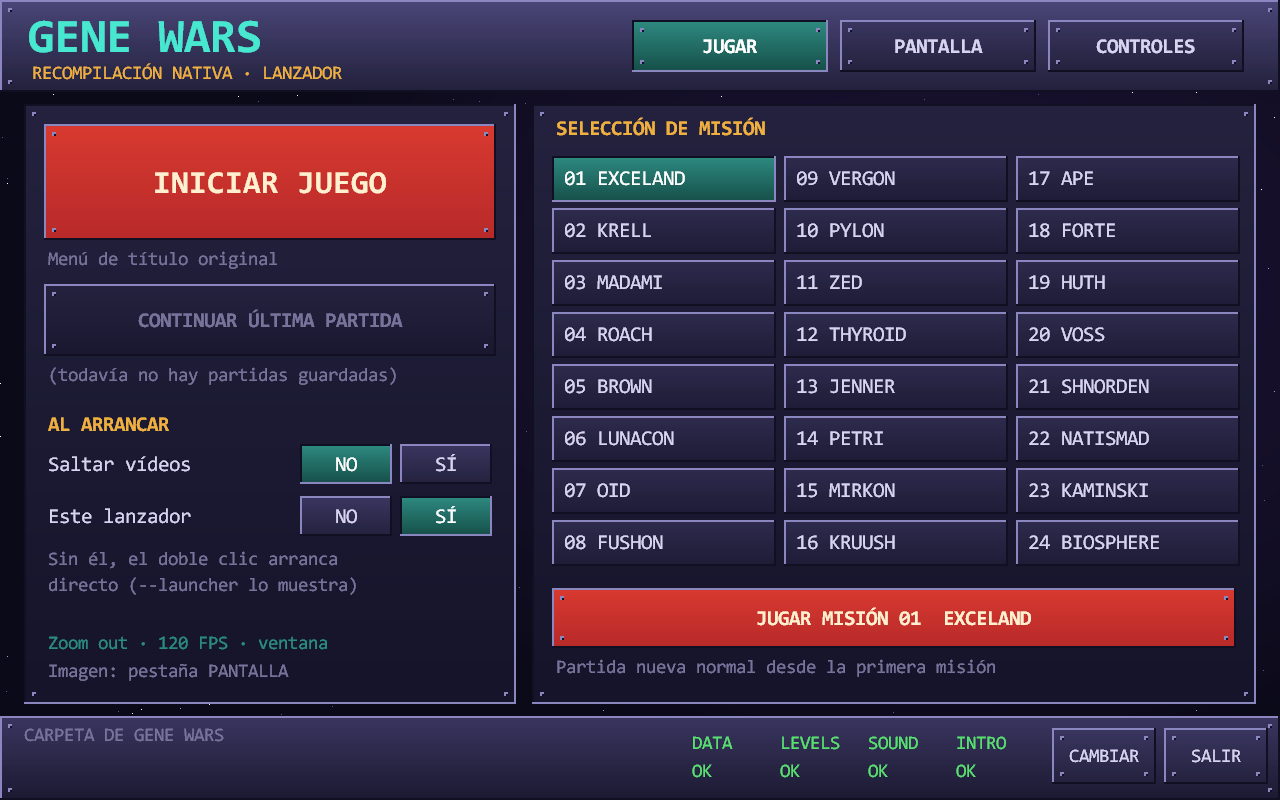
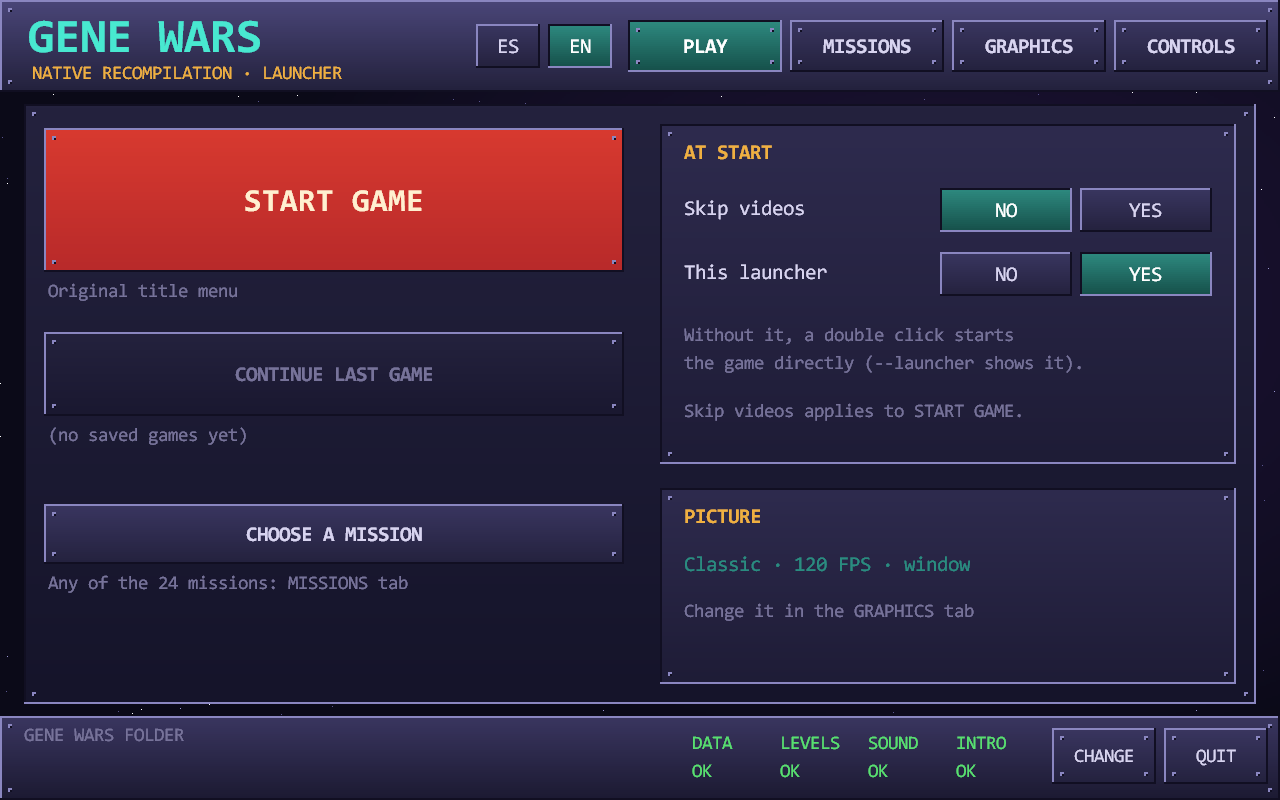
README: bilingual launcher screenshots (play, missions, graphics), download link to Releases, v1.1

diff --git a/README.md b/README.md
@@ -1,4 +1,4 @@
-# GWRecomp v1.0 — Gene Wars, natively on Windows
+# GWRecomp — Gene Wars, natively on Windows
 
 <p align="center">
   <img src="gwrecomp/docs/screenshots/widescreen.png" alt="Mission 1 in widescreen 854x480: an extractor built on the GOOP field and the translucent placement ghost of the next one" width="100%">
@@ -12,6 +12,9 @@ AI and mixer are the original code; the host only replaces the hardware and DOS 
 
 It needs **your own copy of Gene Wars 1.1**: no game files are included (see [Legal](#legal)).
 
+**Download:** [latest release](https://github.com/Polocop/genewars/releases/latest) (`GWRecomp-*-win32.zip`, Windows,
+ready to play with your own `GENEWARS` folder) · **Descarga:** [última versión](https://github.com/Polocop/genewars/releases/latest).
+
 ## Screenshots
 
 <table>
@@ -24,15 +27,20 @@ It needs **your own copy of Gene Wars 1.1**: no game files are included (see [Le
     <td align="center"><em>Classic 640×480, as in 1996</em></td>
   </tr>
   <tr>
-    <td width="50%"><img src="gwrecomp/docs/screenshots/launcher-play.png" alt="Native launcher: mission selection"></td>
-    <td width="50%"><img src="gwrecomp/docs/screenshots/launcher-display.png" alt="Native launcher: display options"></td>
+    <td width="50%"><img src="gwrecomp/docs/screenshots/launcher-play.png" alt="Native launcher: play tab"></td>
+    <td width="50%"><img src="gwrecomp/docs/screenshots/launcher-missions.png" alt="Native launcher: mission selection"></td>
   </tr>
   <tr>
-    <td align="center"><em>Native launcher: start, continue or pick any of the 24 missions</em></td>
-    <td align="center"><em>Display options: view mode, resolution, 60/120 FPS, filter, water and GOOP</em></td>
+    <td align="center"><em>Native launcher (English / Spanish): start, continue, start-up options</em></td>
+    <td align="center"><em>Missions: pick any of the 24 missions</em></td>
   </tr>
   <tr>
-    <td colspan="2" align="center"><img src="gwrecomp/docs/screenshots/planet.png" alt="Planet system screen" width="60%"><br><em>The original planet-system screen, with its sounds</em></td>
+    <td width="50%"><img src="gwrecomp/docs/screenshots/launcher-graphics.png" alt="Native launcher: graphics options"></td>
+    <td width="50%"><img src="gwrecomp/docs/screenshots/planet.png" alt="Planet system screen"></td>
+  </tr>
+  <tr>
+    <td align="center"><em>Graphics: view mode, resolution, 60/120 FPS, filter, water and GOOP</em></td>
+    <td align="center"><em>The original planet-system screen, with its sounds</em></td>
   </tr>
 </table>
 
@@ -45,7 +53,7 @@ the source folders of this repository, untouched.
 - **Native Win32/SDL2 build** of the original executable: one `gwrecomp.exe` plus `SDL2.dll`, no DOSBox, no emulator.
 - **Deterministic regression check:** the A/B suite renders 56 frame captures at four points of mission 1 (after
   the landing, before a creature is ready, during construction, extractor selected) and compares them with reference
-  hashes; v1.0 matches all 56 bit for bit. The presentation extras (interpolation, water, audio) never write game
+  hashes; v1.1 matches all 56 bit for bit. The presentation extras (interpolation, water, audio) never write game
   memory, so they cannot change these frames.
 - **Three view modes:**
   - Classic `640×480` (the original frame),
@@ -63,17 +71,17 @@ the source folders of this repository, untouched.
   - stereo panning and distance fade calibrated to the visible map width,
   - subtle ±4.5 % pitch variation on effects (never on voices),
   - music ducking while a voice speaks.
-- **Native graphical launcher:** mission selector 1–24, Continue, view/resolution/filter/audio options, all saved
-  in `gwrecomp.ini`.
+- **Native graphical launcher in English and Spanish** (ES / EN buttons; by default it follows the Windows
+  language): mission selector 1–24, Continue, view/resolution/filter/audio options, all saved in `gwrecomp.ini`.
 
 ## Installation (English)
 
 1. Have **Gene Wars 1.1 (European edition)** installed: the `GENEWARS` folder created by the original installer
    (`DATA`, `LEVELS`, `SOUND`, `INTRO`, `ANIMS`, `LDATA`, `S`, `SPEECH`, `SAVE` and the loose files such as `GW.EXE`).
    GWRecomp checks them with SHA-256 and only reads them.
-2. Unzip `GWRecomp-v1.0-win32.zip` anywhere you can write (saves and logs go next to the program).
-3. Double-click `gwrecomp.exe`. In the launcher press **CAMBIAR** and choose your `GENEWARS` folder; the four marks
-   DATA / LEVELS / SOUND / INTRO turn green.
+2. Download `GWRecomp-v1.1-win32.zip` from [Releases](https://github.com/Polocop/genewars/releases/latest) and unzip it anywhere you can write (saves and logs go next to the program).
+3. Double-click `gwrecomp.exe`. In the launcher press **CHANGE** and choose your `GENEWARS` folder; the four marks
+   DATA / LEVELS / SOUND / INTRO turn green. The **ES / EN** buttons at the top switch the launcher's language.
 4. Start the game, continue the last game, or pick a mission.
 
 **First start:** the first time you enter the game, `gwrecomp.exe` prepares two files in `work\` from *your* `GW.EXE`
@@ -90,6 +98,7 @@ them.
 | `filter` | `sharp`, `epx` or `crt` (also F7 in game) |
 | `water_effects` | animated water and GOOP (`1`/`0`) |
 | `enhanced_audio` | calibrated panning, pitch variation, music ducking (`1`/`0`) |
+| `language` | launcher language: `en`, `es` or `auto` (Windows display language) |
 | `cd_cue` | path to your own Gene Wars CD image `.cue`, for the CD music |
 | `data_dir` | your `GENEWARS` folder (the launcher fills it in) |
 
@@ -104,9 +113,10 @@ Building from source (Windows, MSYS2 mingw32, Python, LLVM clang) is described i
 1. Ten instalado **Gene Wars 1.1 (edición europea)**: la carpeta `GENEWARS` que crea el instalador original
    (`DATA`, `LEVELS`, `SOUND`, `INTRO`, `ANIMS`, `LDATA`, `S`, `SPEECH`, `SAVE` y los archivos sueltos como `GW.EXE`).
    GWRecomp los comprueba con SHA-256 y solo los lee.
-2. Descomprime `GWRecomp-v1.0-win32.zip` en una carpeta donde puedas escribir (ahí se guardan partidas y registros).
+2. Descarga `GWRecomp-v1.1-win32.zip` de [Releases](https://github.com/Polocop/genewars/releases/latest) y descomprímelo en una carpeta donde puedas escribir (ahí se guardan partidas y registros).
 3. Haz doble clic en `gwrecomp.exe`. En el lanzador pulsa **CAMBIAR** y elige tu carpeta `GENEWARS`; las cuatro
-   marcas DATA / LEVELS / SOUND / INTRO se ponen en verde.
+   marcas DATA / LEVELS / SOUND / INTRO se ponen en verde. Los botones **ES / EN** de arriba cambian el idioma del
+   lanzador.
 4. Inicia el juego, continúa la última partida o elige una misión.
 
 **Primer arranque:** la primera vez que entras al juego, `gwrecomp.exe` prepara dos archivos en `work\` a partir de
@@ -114,7 +124,7 @@ Building from source (Windows, MSYS2 mingw32, Python, LLVM clang) is described i
 compartas.
 
 **Opciones:** todo lo que cambias en el lanzador se guarda en `gwrecomp.ini` (modo de vista, resolución, pantalla
-completa, 60/120 FPS, filtro, `water_effects`, `enhanced_audio`). Para la música del CD añade
+completa, 60/120 FPS, filtro, `water_effects`, `enhanced_audio`, `language` = `es` / `en` / `auto`). Para la música del CD añade
 `cd_cue = C:\ruta\a\tu\imagen\genewars.cue` con tu propia imagen del CD. `gwrecomp.ini.example` explica cada clave.
 
 ## Legal

diff --git a/gwrecomp/README.md b/gwrecomp/README.md
@@ -1,6 +1,6 @@
 # GWRecomp
 
-> **v1.0:** features, installation and the legal notice for players are in the [repository README](../README.md).
+> **v1.1:** features, installation and the legal notice for players are in the [repository README](../README.md).
 > This page covers building from source and the project's internals.
 
 **GWRecomp** is an experimental effort to run *Gene Wars* (Bullfrog Productions, 1996, v1.1 DOS4GW/Watcom LE executable) **natively on Windows, without DOSBox**, by statically lifting the original x86-32 code to C and running it on a modern host-platform layer (SDL2 video/audio/input, DOS/DPMI service emulation, a virtual SB16 for the original Miles mixer, CD-DA playback).
